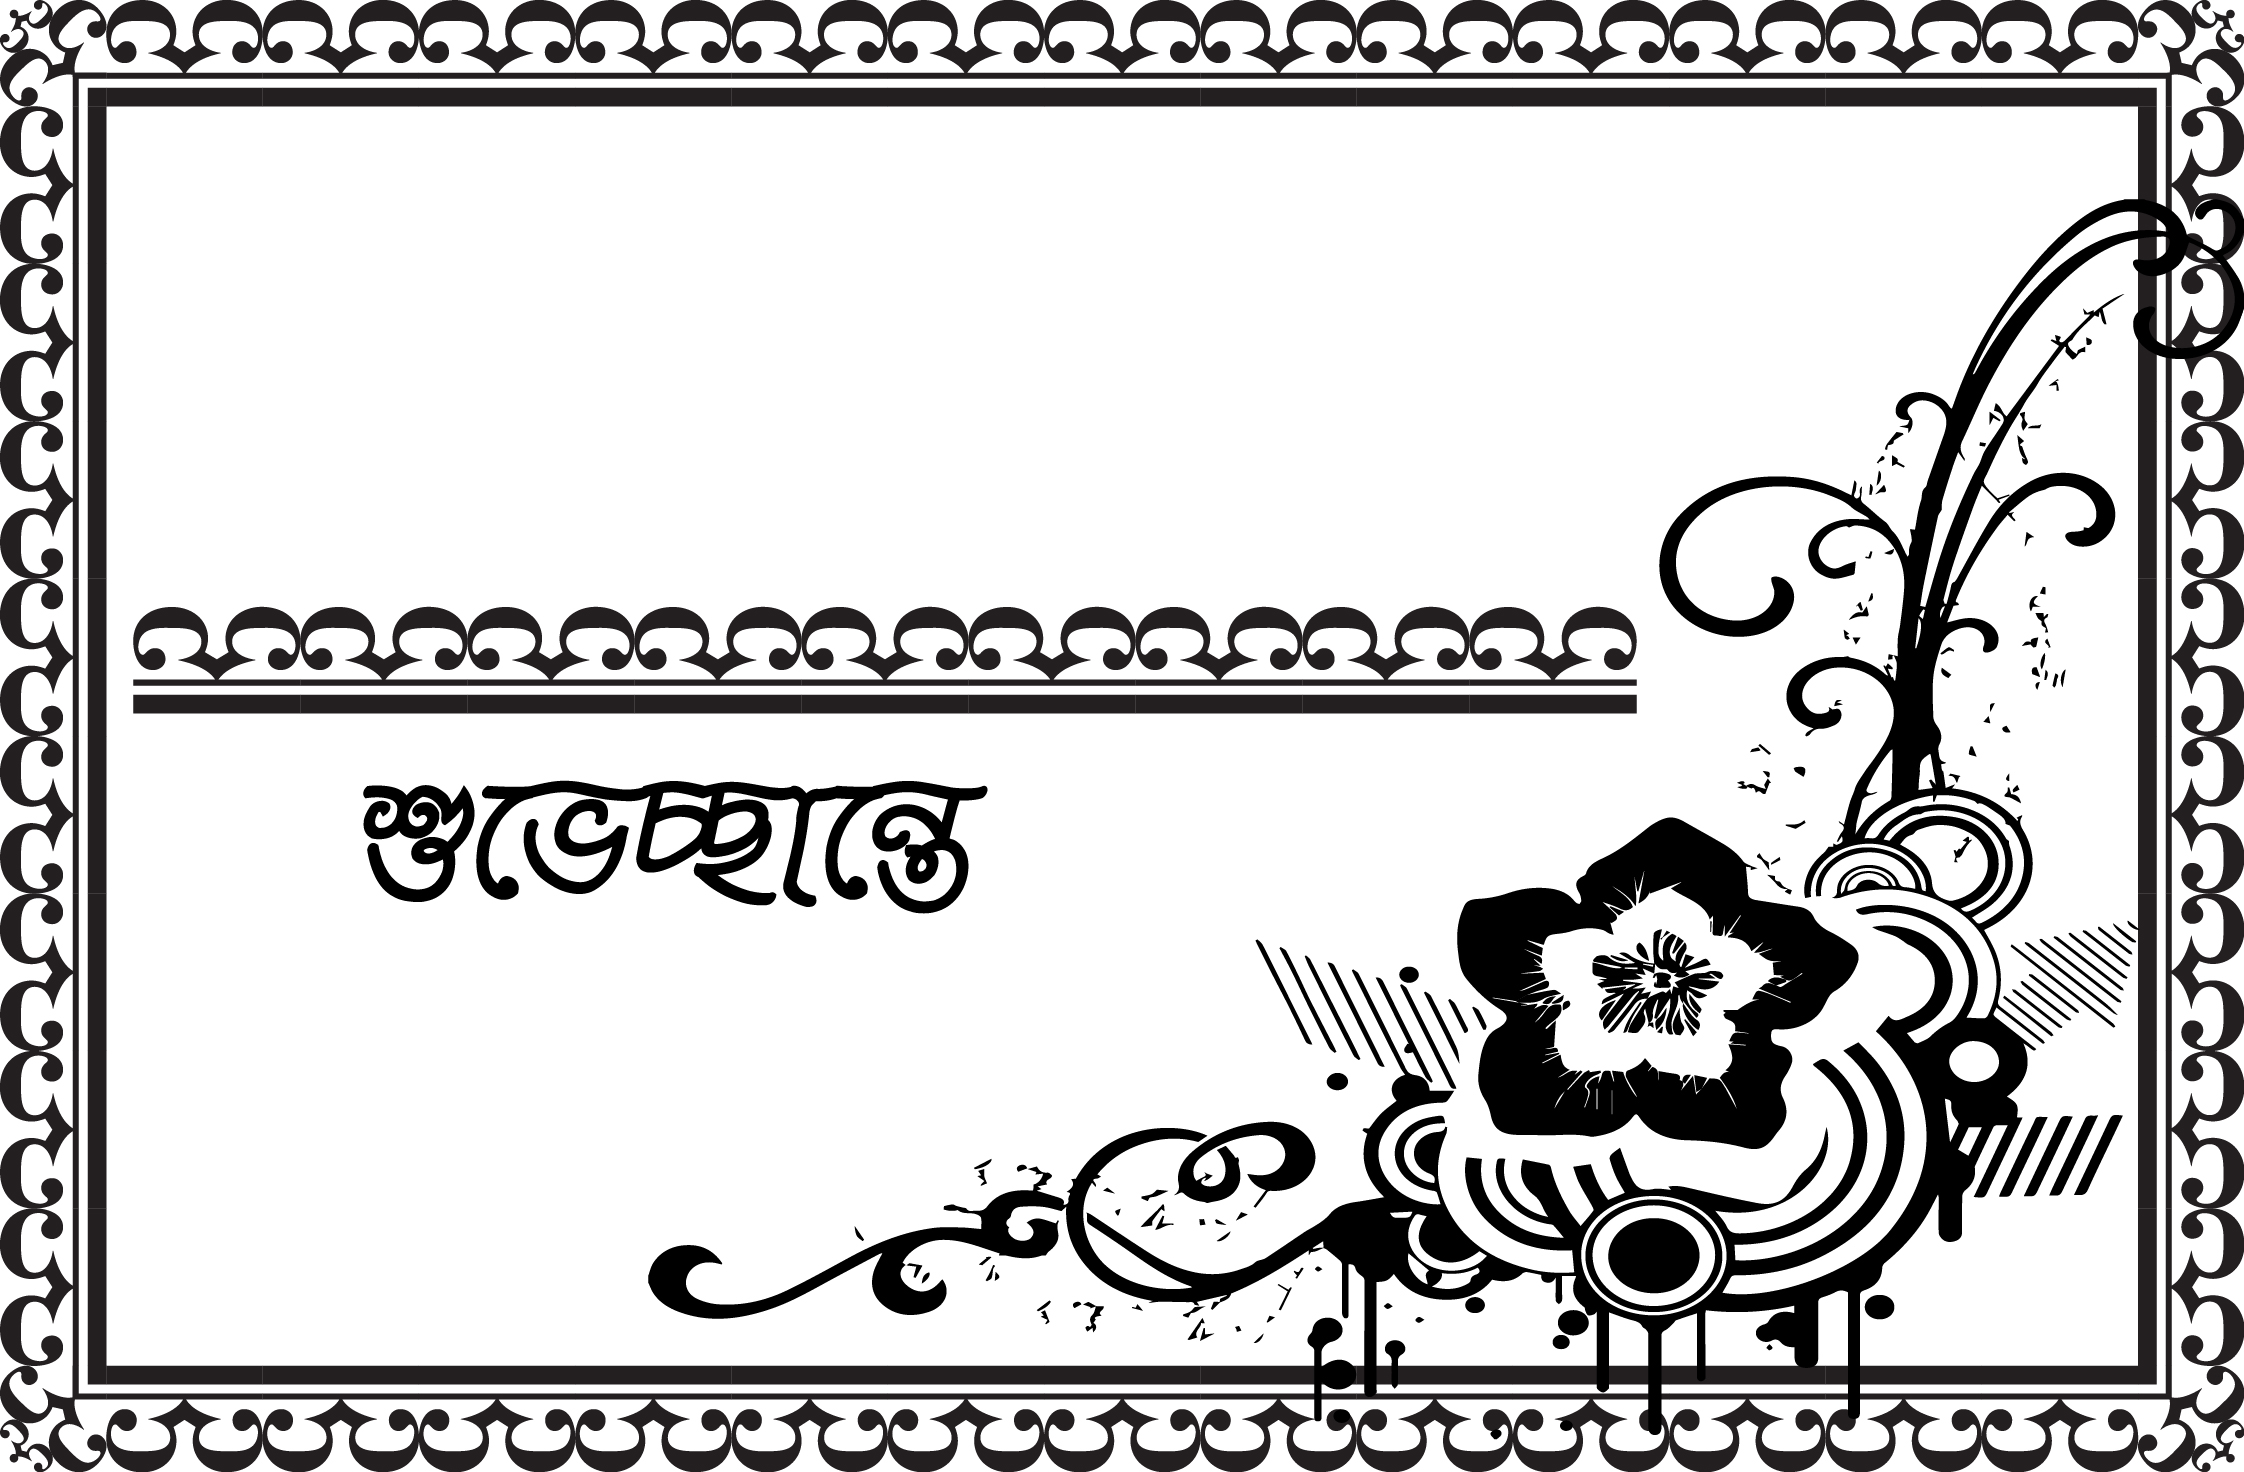
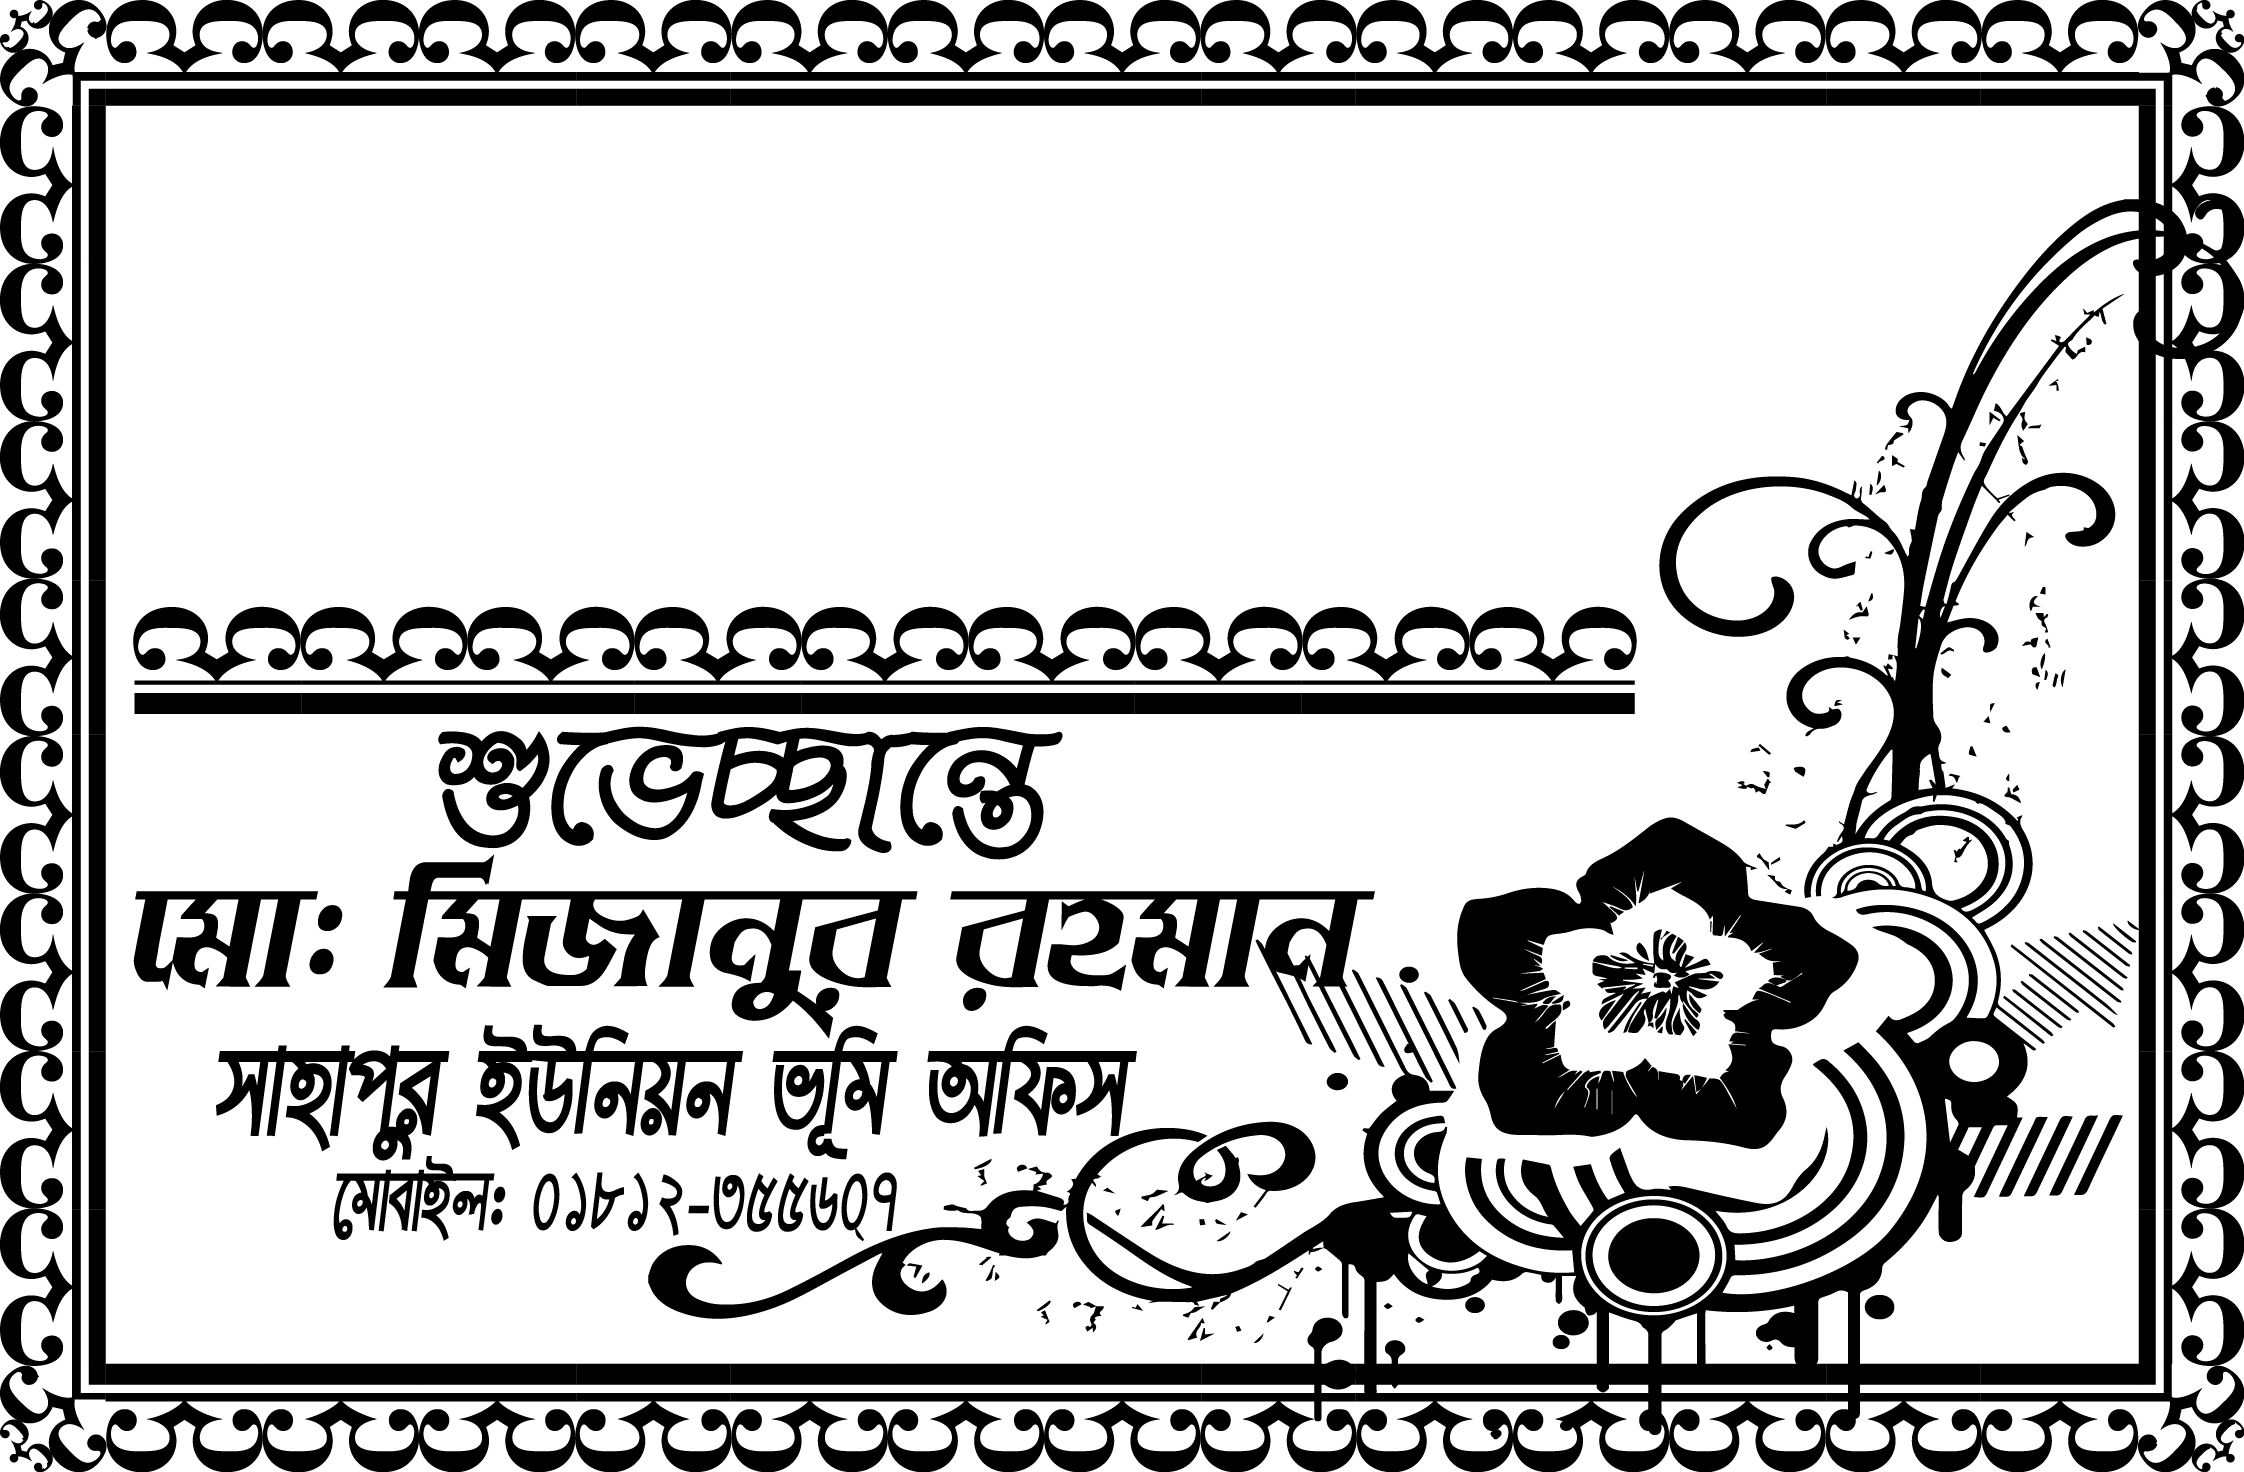
Js config
Js config

Changed region(s): [[0.0, 0.0, 1.0, 1.0]]

diff --git a/index.html b/index.html
@@ -121,11 +121,11 @@
               <div class="col-md-6 Design_Template_border">
                 <div class="title">
                     নাম: <br>
-                    <input type="text" placeholder="নাম" class="form-control">
+                    <input type="text" placeholder="নাম" id="Title_One" class="form-control">
                 </div>
                 <div class="sub_title">
                     টাইটেল: <br>
-                    <input type="text" placeholder="টাইটেল" class="form-control">
+                    <input type="text" placeholder="টাইটেল" id="Sub_Title_One" class="form-control">
                 </div>
               </div>
 
@@ -133,11 +133,11 @@
               <div class="col-md-6 Design_Template_border">
                 <div class="">
                     নাম: <br>
-                    <input type="text" placeholder="নাম" class="form-control">
+                    <input type="text" placeholder="নাম" id="Title_Two" class="form-control">
                 </div>
                 <div class="sub_title">
                     টাইটেল: <br>
-                    <input type="text" placeholder="টাইটেল" class="form-control">
+                    <input type="text" placeholder="টাইটেল" id="Sub_Title_Two" class="form-control">
                 </div>
               </div>
 
@@ -152,11 +152,11 @@
                 <div class="col-md-6 Design_Template_border">
                   <div class="title">
                       নাম: <br>
-                      <input type="text" placeholder="নাম" class="form-control">
+                      <input type="text" placeholder="নাম" id="Title_Three" class="form-control">
                   </div>
                   <div class="sub_title">
                       টাইটেল: <br>
-                      <input type="text" placeholder="টাইটেল" class="form-control">
+                      <input type="text" placeholder="টাইটেল" id="Sub_Title_Three" class="form-control">
                   </div>
                 </div>
   
@@ -164,18 +164,21 @@
                 <div class="col-md-6 Design_Template_border">
                   <div class="">
                       নাম: <br>
-                      <input type="text" placeholder="নাম" class="form-control">
+                      <input type="text" placeholder="নাম" id="Title_Four" class="form-control">
                   </div>
                   <div class="sub_title">
                       টাইটেল: <br>
-                      <input type="text" placeholder="টাইটেল" class="form-control">
+                      <input type="text" placeholder="টাইটেল" id="Sub_Title_Four" class="form-control">
                   </div>
                 </div>
   
             </div>
 
-
-
+            <div class="button">
+              <button onclick="Submit()" class="btn btn-success">Submit</button>
+              <button onclick="Print('Print_Section')" class="btn btn-outline-success">Print</button>
+            </div>
+    
 
         </div>
 
@@ -183,18 +186,18 @@
     </section>
 
 
-    <section class="Print_Section">
+    <section class="Print_Section" id="Print_Section">
         <div class="row">
             <div class="col-md-6 ">
                 <div class="Design_Box">
                     <img src="./image/Design.jpg" class="img-fluid" alt="">
                     <div class="Print_Text">
-                        <h1 class="Title_Print">রাসেল হোসাইন</h1>
-                        <h3 class="SubTitle_Print">ব্যাংক এশিয়া শাহাপুর</h3>
+                        <h1 class="Title_Print" id="Title_One_Show" ></h1>
+                        <h3 class="SubTitle_Print" id="Sub_Title_One_Show"></h3>
 
-                        <div class="Person">মিজানুর রহমান</div>
+                        <!-- <div class="Person">মিজানুর রহমান</div>
                         <div class="Person_Title">সাহাপুর ইউনিয়ন ভূমি অফিস</div>
-                        <div class="Person_Mobile">০১৯০০০০০০০০</div>
+                        <div class="Person_Mobile">০১৯০০০০০০০০</div> -->
                     </div>
                 </div>
             </div>
@@ -204,12 +207,12 @@
                     <div class="Design_Box">
                         <img src="./image/Design.jpg" class="img-fluid" alt="">
                         <div class="Print_Text">
-                            <h1 class="Title_Print">রাসেল হোসাইন</h1>
-                            <h3 class="SubTitle_Print">ব্যাংক এশিয়া শাহাপুর</h3>
+                            <h1 class="Title_Print" id="Title_Two_Show" ></h1>
+                            <h3 class="SubTitle_Print" id="Sub_Title_Two_Show"></h3>
     
-                            <div class="Person">মিজানুর রহমান</div>
+                            <!-- <div class="Person">মিজানুর রহমান</div>
                             <div class="Person_Title">সাহাপুর ইউনিয়ন ভূমি অফিস</div>
-                            <div class="Person_Mobile">০১৯০০০০০০০০</div>
+                            <div class="Person_Mobile">০১৯০০০০০০০০</div> -->
                         </div>
                     </div>
                 </div>
@@ -224,12 +227,12 @@
                 <div class="Design_Box">
                     <img src="./image/Design.jpg" class="img-fluid" alt="">
                     <div class="Print_Text">
-                        <h1 class="Title_Print">রাসেল হোসাইন</h1>
-                        <h3 class="SubTitle_Print">ব্যাংক এশিয়া শাহাপুর</h3>
+                        <h1 class="Title_Print" id="Title_Three_Show" ></h1>
+                        <h3 class="SubTitle_Print" id="Sub_Title_Three_Show"></h3>
 
-                        <div class="Person">মিজানুর রহমান</div>
+                        <!-- <div class="Person">মিজানুর রহমান</div>
                         <div class="Person_Title">সাহাপুর ইউনিয়ন ভূমি অফিস</div>
-                        <div class="Person_Mobile">০১৯০০০০০০০০</div>
+                        <div class="Person_Mobile">০১৯০০০০০০০০</div>  -->
                     </div>
                 </div>
             </div>
@@ -239,12 +242,12 @@
                     <div class="Design_Box">
                         <img src="./image/Design.jpg" class="img-fluid" alt="">
                         <div class="Print_Text">
-                            <h1 class="Title_Print">রাসেল হোসাইন</h1>
-                            <h3 class="SubTitle_Print">ব্যাংক এশিয়া শাহাপুর</h3>
+                            <h1 class="Title_Print" id="Title_Four_Show" ></h1>
+                            <h3 class="SubTitle_Print" id="Sub_Title_Four_Show"></h3>
     
-                            <div class="Person">মিজানুর রহমান</div>
+                            <!-- <div class="Person">মিজানুর রহমান</div>
                             <div class="Person_Title">সাহাপুর ইউনিয়ন ভূমি অফিস</div>
-                            <div class="Person_Mobile">০১৯০০০০০০০০</div>
+                            <div class="Person_Mobile">০১৯০০০০০০০০</div> -->
                         </div>
                     </div>
                 </div>

diff --git a/js/script.js b/js/script.js
@@ -1,0 +1,49 @@
+function Submit(){
+    // input 
+    const Title_One = document.getElementById("Title_One").value;
+    const Title_Two = document.getElementById("Title_Two").value;
+    const Title_Three = document.getElementById("Title_Three").value;
+    const Title_Four = document.getElementById("Title_Four").value;
+
+    const Sub_Title_One = document.getElementById("Sub_Title_One").value;
+    const Sub_Title_Two = document.getElementById("Sub_Title_Two").value;
+    const Sub_Title_Three = document.getElementById("Sub_Title_Three").value;
+    const Sub_Title_Four = document.getElementById("Sub_Title_Four").value;
+
+
+
+    // show 
+    document.getElementById("Sub_Title_One_Show").innerHTML = Title_One;
+    document.getElementById("Sub_Title_Two_Show").innerHTML = Title_Two;
+    document.getElementById("Sub_Title_Three_Show").innerHTML = Title_Three;
+    document.getElementById("Sub_Title_Four_Show").innerHTML = Title_Four;
+
+    document.getElementById("Sub_Title_One_Show").innerHTML = Sub_Title_One;
+    document.getElementById("Sub_Title_Two_Show").innerHTML = Sub_Title_Two;
+    document.getElementById("Sub_Title_Three_Show").innerHTML = Sub_Title_Three;
+    document.getElementById("Sub_Title_Four_Show").innerHTML = Sub_Title_Four;
+
+
+
+
+}
+
+
+
+
+
+
+
+
+function Print(DivName){
+    var printContents = document.getElementById(DivName).innerHTML;
+    var originalContents = document.body.innerHTML;
+
+    document.body.innerHTML = printContents;
+
+    window.print();
+
+    document.body.innerHTML = originalContents;
+    // alert("Test")
+
+}

diff --git a/css/style.css b/css/style.css
@@ -3,6 +3,7 @@
     padding: 10px;
     /* text-align: center; */
     border-radius: 10px;
+    margin-bottom: 10px;
 }
 .Design_Template_border{
     border-radius: 10px;
@@ -22,6 +23,8 @@
 
 .Design_Box{
     position: relative;
+    margin-top: 20px;
+    margin-bottom: 20px;
 }
 
 
@@ -36,8 +39,9 @@
 
 .Title_Print{
     margin-left: 40px;
+    
     margin-top: 35px;
-    font-size: 70px;
+    font-size: 40px;
     font-weight: bold;
 }
 
@@ -61,4 +65,16 @@
     margin-left: 40px;
     font-size: 17px;
     font-weight: bold;
+}
+
+
+.button button{
+    width: 100%;
+    margin-top: 10px;
+}
+
+.Print_Section{
+    /* width: 11.69in;
+    height:  8.27in; */
+
 }
